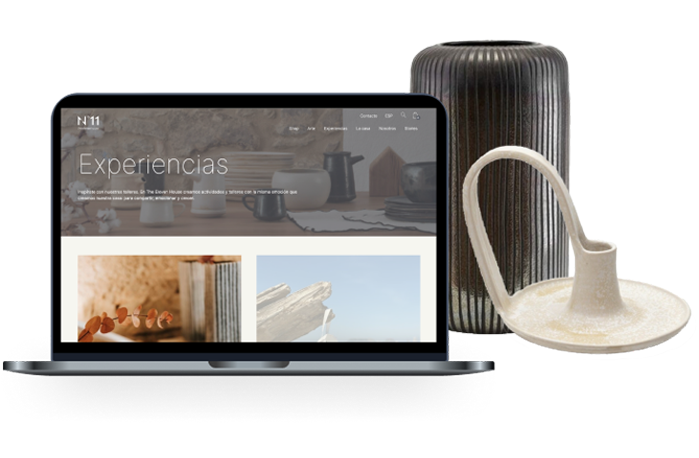
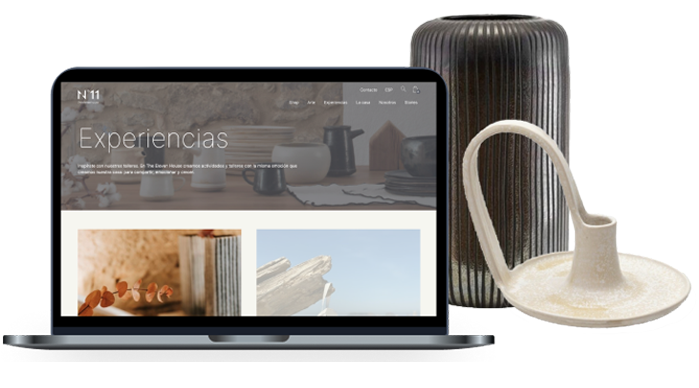
Feat(Landing): Creación landings y maquetación

diff --git a/public/front/css/style.css b/public/front/css/style.css
@@ -1138,8 +1138,9 @@ section.landing-agencia-marketing .content-2-agency .title-section {
     margin: 15px auto 44px;
     font-family: var(--title-font)
 }
-section.landing-agencia-marketing .content-2-agency .container-proyectos {
-
+section.landing-agencia-marketing .content-2-agency .container-proyectos {}
+section.landing-agencia-marketing .content-2-agency .container-proyectos .row {
+ margin-bottom:45px;
 }
 section.landing-agencia-marketing .content-2-agency .container-proyectos .element-img.mobile {
     display: none;
